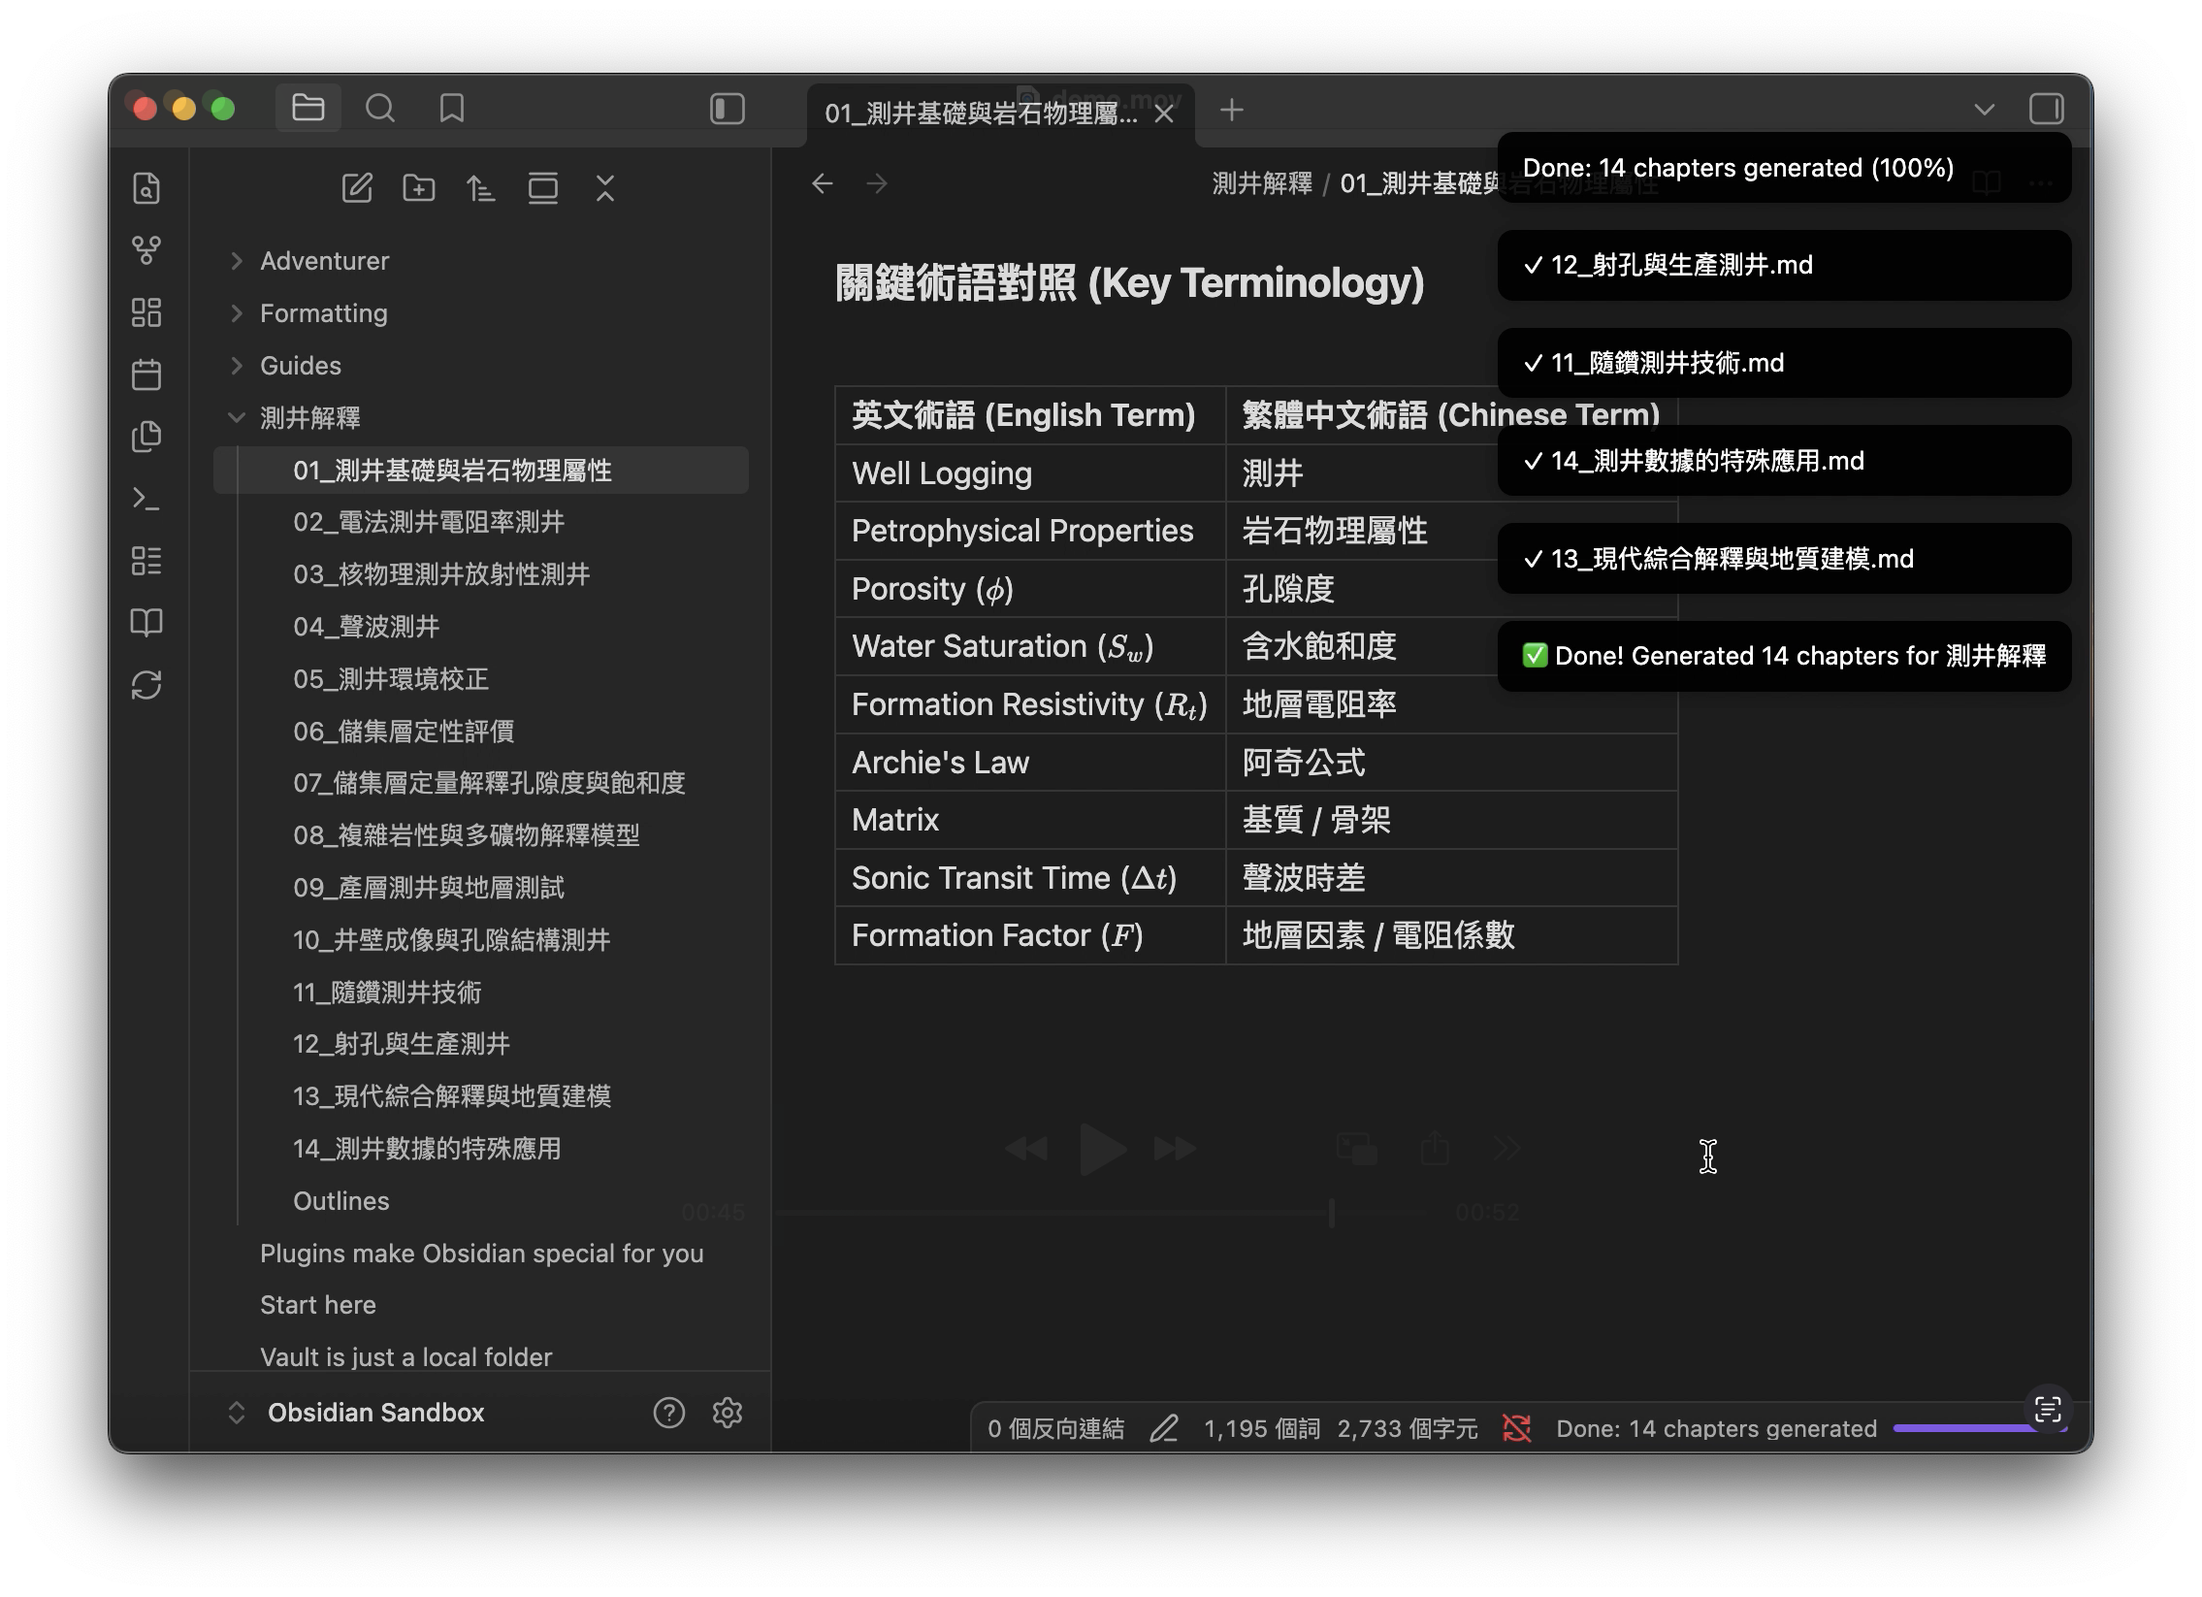
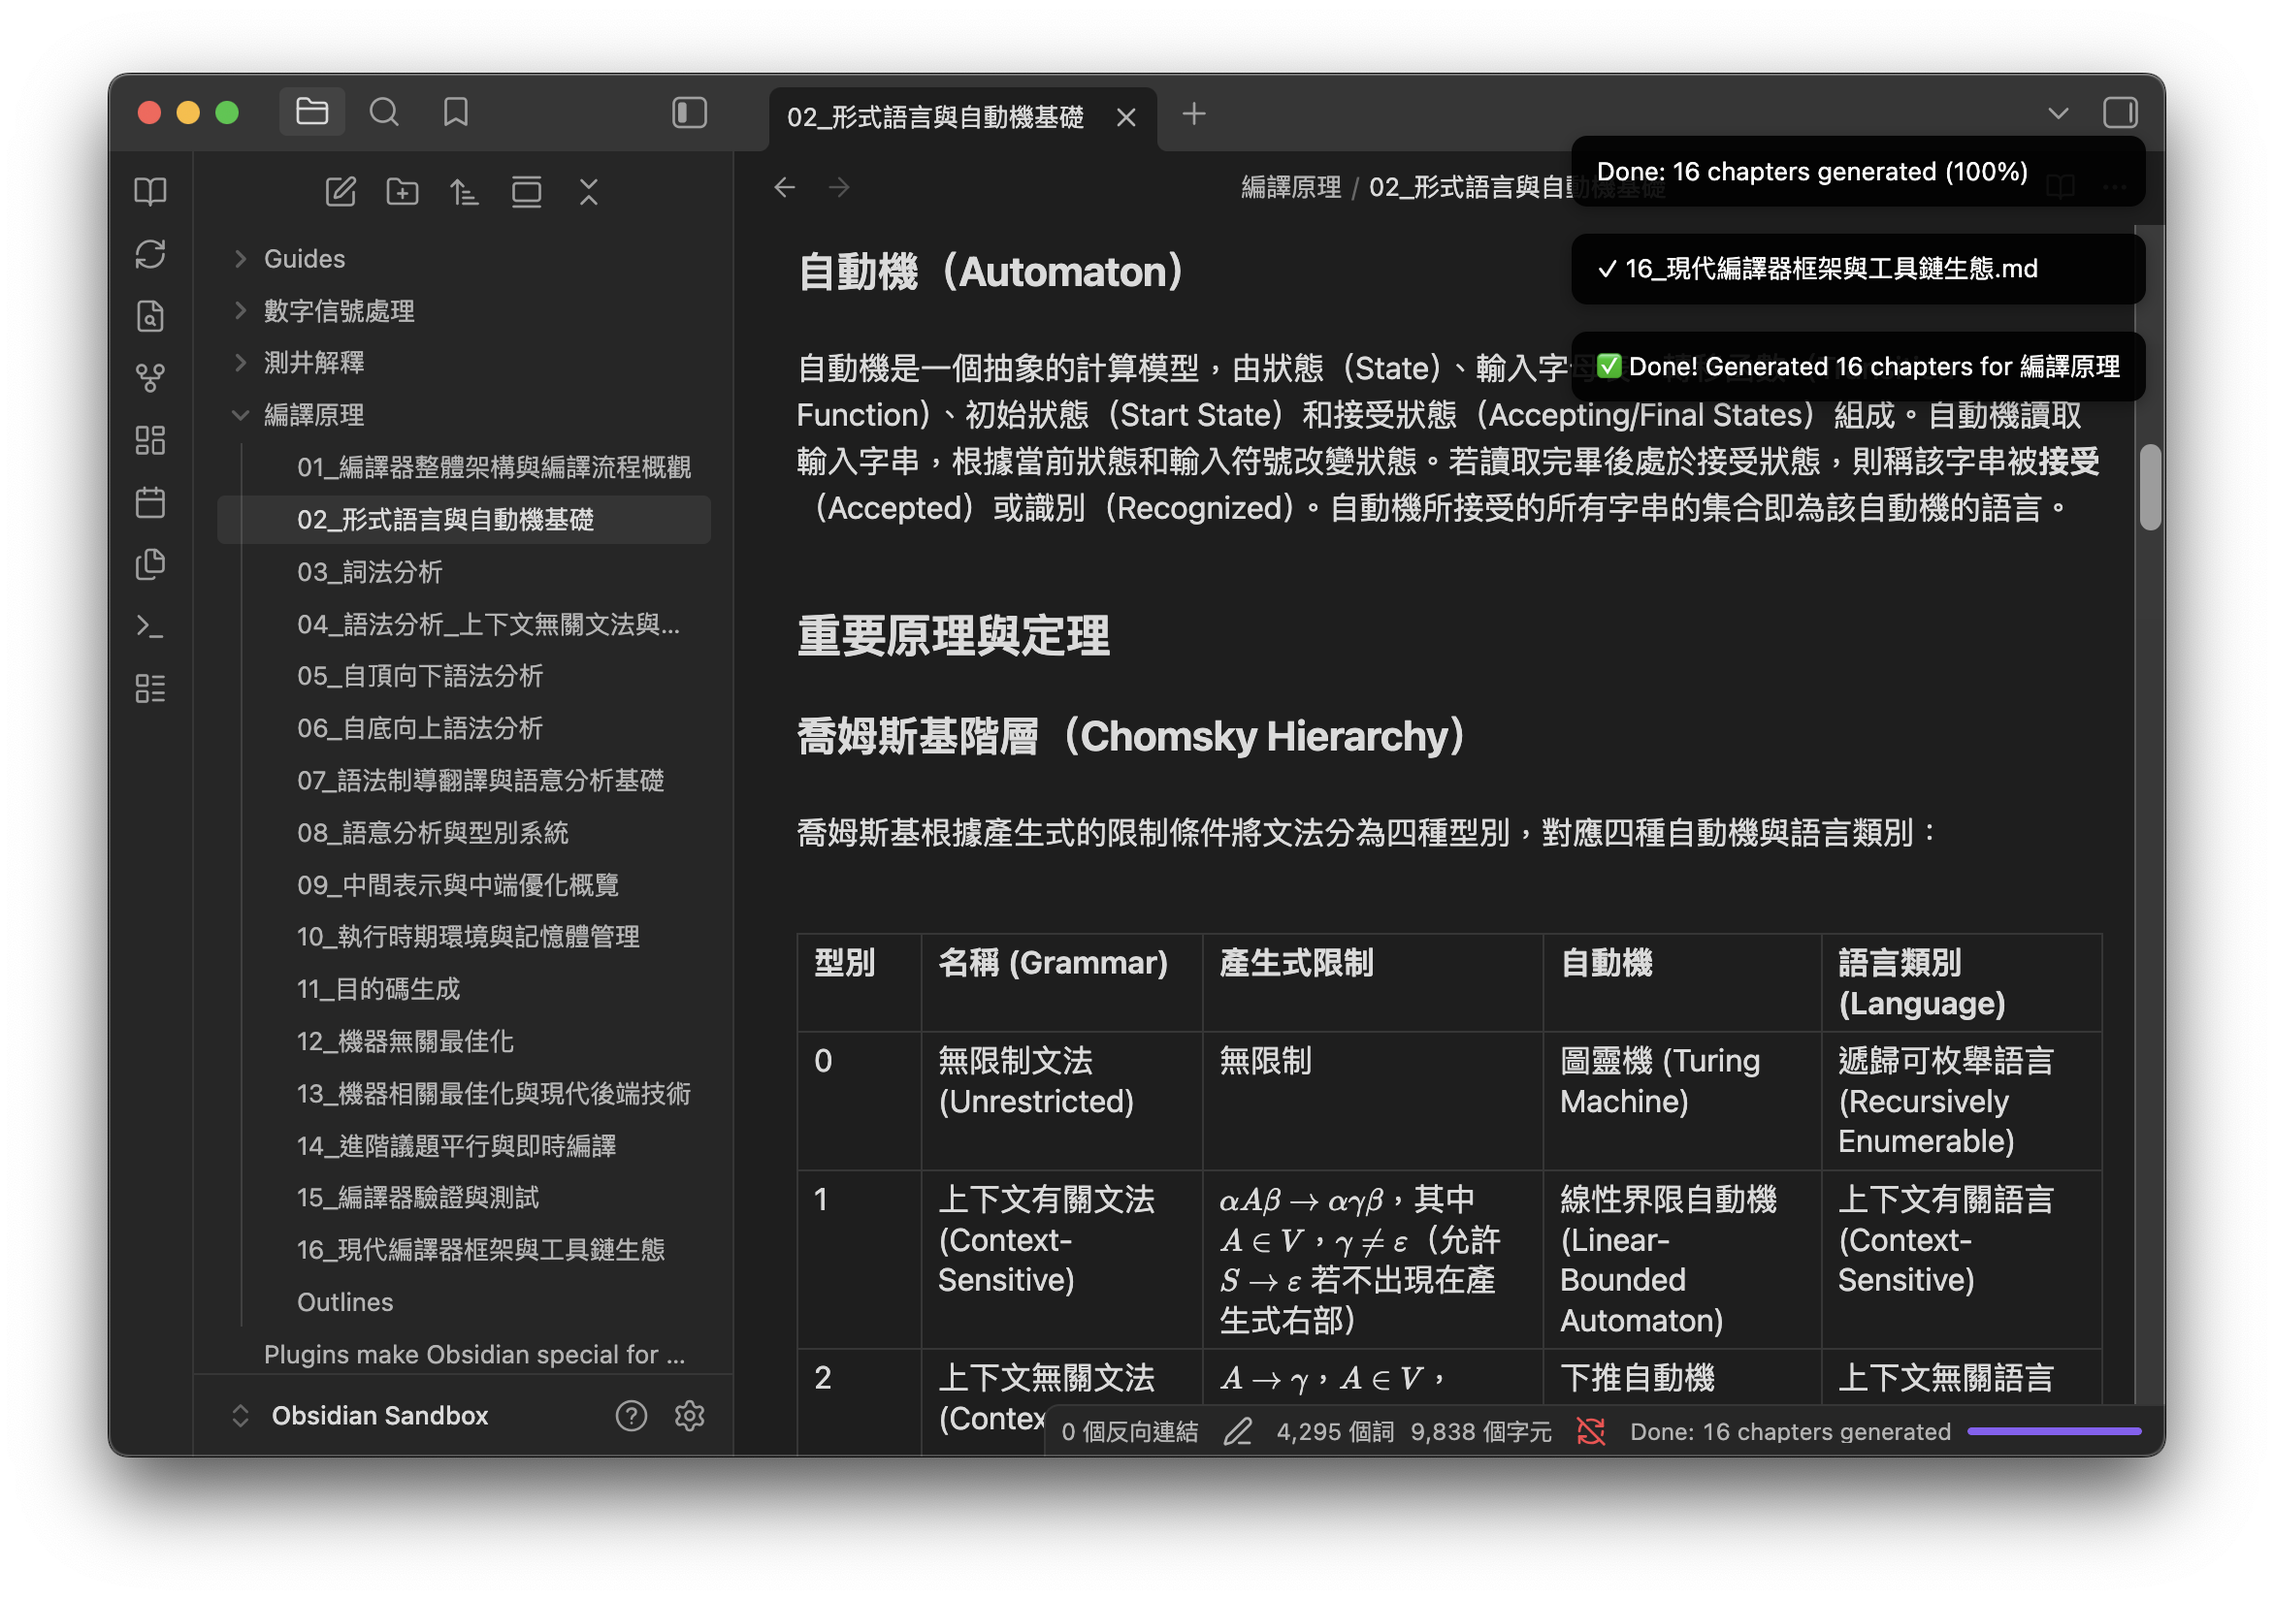
fix: refresh localized UI settings

diff --git a/main.js b/main.js
@@ -753,6 +753,7 @@ var SettingTab = class extends import_obsidian3.PluginSettingTab {
       return dropdown.setValue(this.plugin.settings.language).onChange(async (v) => {
         this.plugin.settings.language = v;
         await this.plugin.saveSettings();
+        this.plugin.refreshLocalizedUi();
       });
     });
   }
@@ -778,22 +779,22 @@ var KnowledgePlugin = class extends import_obsidian4.Plugin {
         new ResumeFailedModal(this.app, this, this.getActiveCourseName()).open();
       }
     });
-    const ribbonIcon = this.addRibbonIcon(
+    this.generateRibbonIcon = this.addRibbonIcon(
       "book-open",
       uiText.generateKnowledge,
       () => {
         new InputModal(this.app, this).open();
       }
     );
-    ribbonIcon.addClass("knowledge-ribbon-icon");
-    const resumeRibbonIcon = this.addRibbonIcon(
+    this.generateRibbonIcon.addClass("knowledge-ribbon-icon");
+    this.resumeRibbonIcon = this.addRibbonIcon(
       "refresh-cw",
       uiText.resumeFailedChapters,
       () => {
         new ResumeFailedModal(this.app, this, this.getActiveCourseName()).open();
       }
     );
-    resumeRibbonIcon.addClass("knowledge-ribbon-icon");
+    this.resumeRibbonIcon.addClass("knowledge-ribbon-icon");
     this.addSettingTab(new SettingTab(this.app, this));
   }
   async loadSettings() {
@@ -815,6 +816,18 @@ var KnowledgePlugin = class extends import_obsidian4.Plugin {
   }
   async saveSettings() {
     await this.saveData(this.settings);
+  }
+  refreshLocalizedUi() {
+    const uiText = getUiText(this.settings.language);
+    this.updateRibbonLabel(this.generateRibbonIcon, uiText.generateKnowledge);
+    this.updateRibbonLabel(this.resumeRibbonIcon, uiText.resumeFailedChapters);
+  }
+  updateRibbonLabel(ribbonIcon, label) {
+    if (!ribbonIcon) {
+      return;
+    }
+    ribbonIcon.setAttr("aria-label", label);
+    ribbonIcon.setAttr("title", label);
   }
   getActiveCourseName() {
     var _a, _b;

diff --git a/src/plugin.ts b/src/plugin.ts
@@ -38,6 +38,8 @@ export default class KnowledgePlugin extends Plugin {
   private progressLabelEl?: HTMLElement;
   private progressFillEl?: HTMLElement;
   private progressNotice?: Notice;
+  private generateRibbonIcon?: HTMLElement;
+  private resumeRibbonIcon?: HTMLElement;
 
   async onload() {
     await this.loadSettings();
@@ -60,23 +62,23 @@ export default class KnowledgePlugin extends Plugin {
       },
     });
 
-    const ribbonIcon = this.addRibbonIcon(
+    this.generateRibbonIcon = this.addRibbonIcon(
       "book-open",
       uiText.generateKnowledge,
       () => {
         new InputModal(this.app, this).open();
       },
     );
-    ribbonIcon.addClass("knowledge-ribbon-icon");
+    this.generateRibbonIcon.addClass("knowledge-ribbon-icon");
 
-    const resumeRibbonIcon = this.addRibbonIcon(
+    this.resumeRibbonIcon = this.addRibbonIcon(
       "refresh-cw",
       uiText.resumeFailedChapters,
       () => {
         new ResumeFailedModal(this.app, this, this.getActiveCourseName()).open();
       },
     );
-    resumeRibbonIcon.addClass("knowledge-ribbon-icon");
+    this.resumeRibbonIcon.addClass("knowledge-ribbon-icon");
 
     this.addSettingTab(new SettingTab(this.app, this));
   }
@@ -101,6 +103,21 @@ export default class KnowledgePlugin extends Plugin {
 
   async saveSettings() {
     await this.saveData(this.settings);
+  }
+
+  refreshLocalizedUi(): void {
+    const uiText = getUiText(this.settings.language);
+    this.updateRibbonLabel(this.generateRibbonIcon, uiText.generateKnowledge);
+    this.updateRibbonLabel(this.resumeRibbonIcon, uiText.resumeFailedChapters);
+  }
+
+  private updateRibbonLabel(ribbonIcon: HTMLElement | undefined, label: string): void {
+    if (!ribbonIcon) {
+      return;
+    }
+
+    ribbonIcon.setAttr("aria-label", label);
+    ribbonIcon.setAttr("title", label);
   }
 
   getActiveCourseName(): string {

diff --git a/styles.css b/styles.css
@@ -57,7 +57,17 @@
   min-width: 0;
 }
 
-.knowledge-settings .setting-item-control input {
+.knowledge-settings .setting-item-info {
+  min-width: 0;
+}
+
+.knowledge-settings .setting-item-control {
+  flex: 0 0 min(40%, 512px);
+  width: min(40%, 512px);
+}
+
+.knowledge-settings .setting-item-control input,
+.knowledge-settings .setting-item-control select {
   width: 100%;
 }
 
@@ -69,6 +79,7 @@
 
   .knowledge-settings .setting-item-info,
   .knowledge-settings .setting-item-control {
+    flex: none;
     width: 100%;
   }
 }

diff --git a/src/settings-tab.ts b/src/settings-tab.ts
@@ -158,8 +158,8 @@ export class SettingTab extends PluginSettingTab {
           .onChange(async (v) => {
             this.plugin.settings.language = v;
             await this.plugin.saveSettings();
+            this.plugin.refreshLocalizedUi();
           });
       });
   }
 }
-
